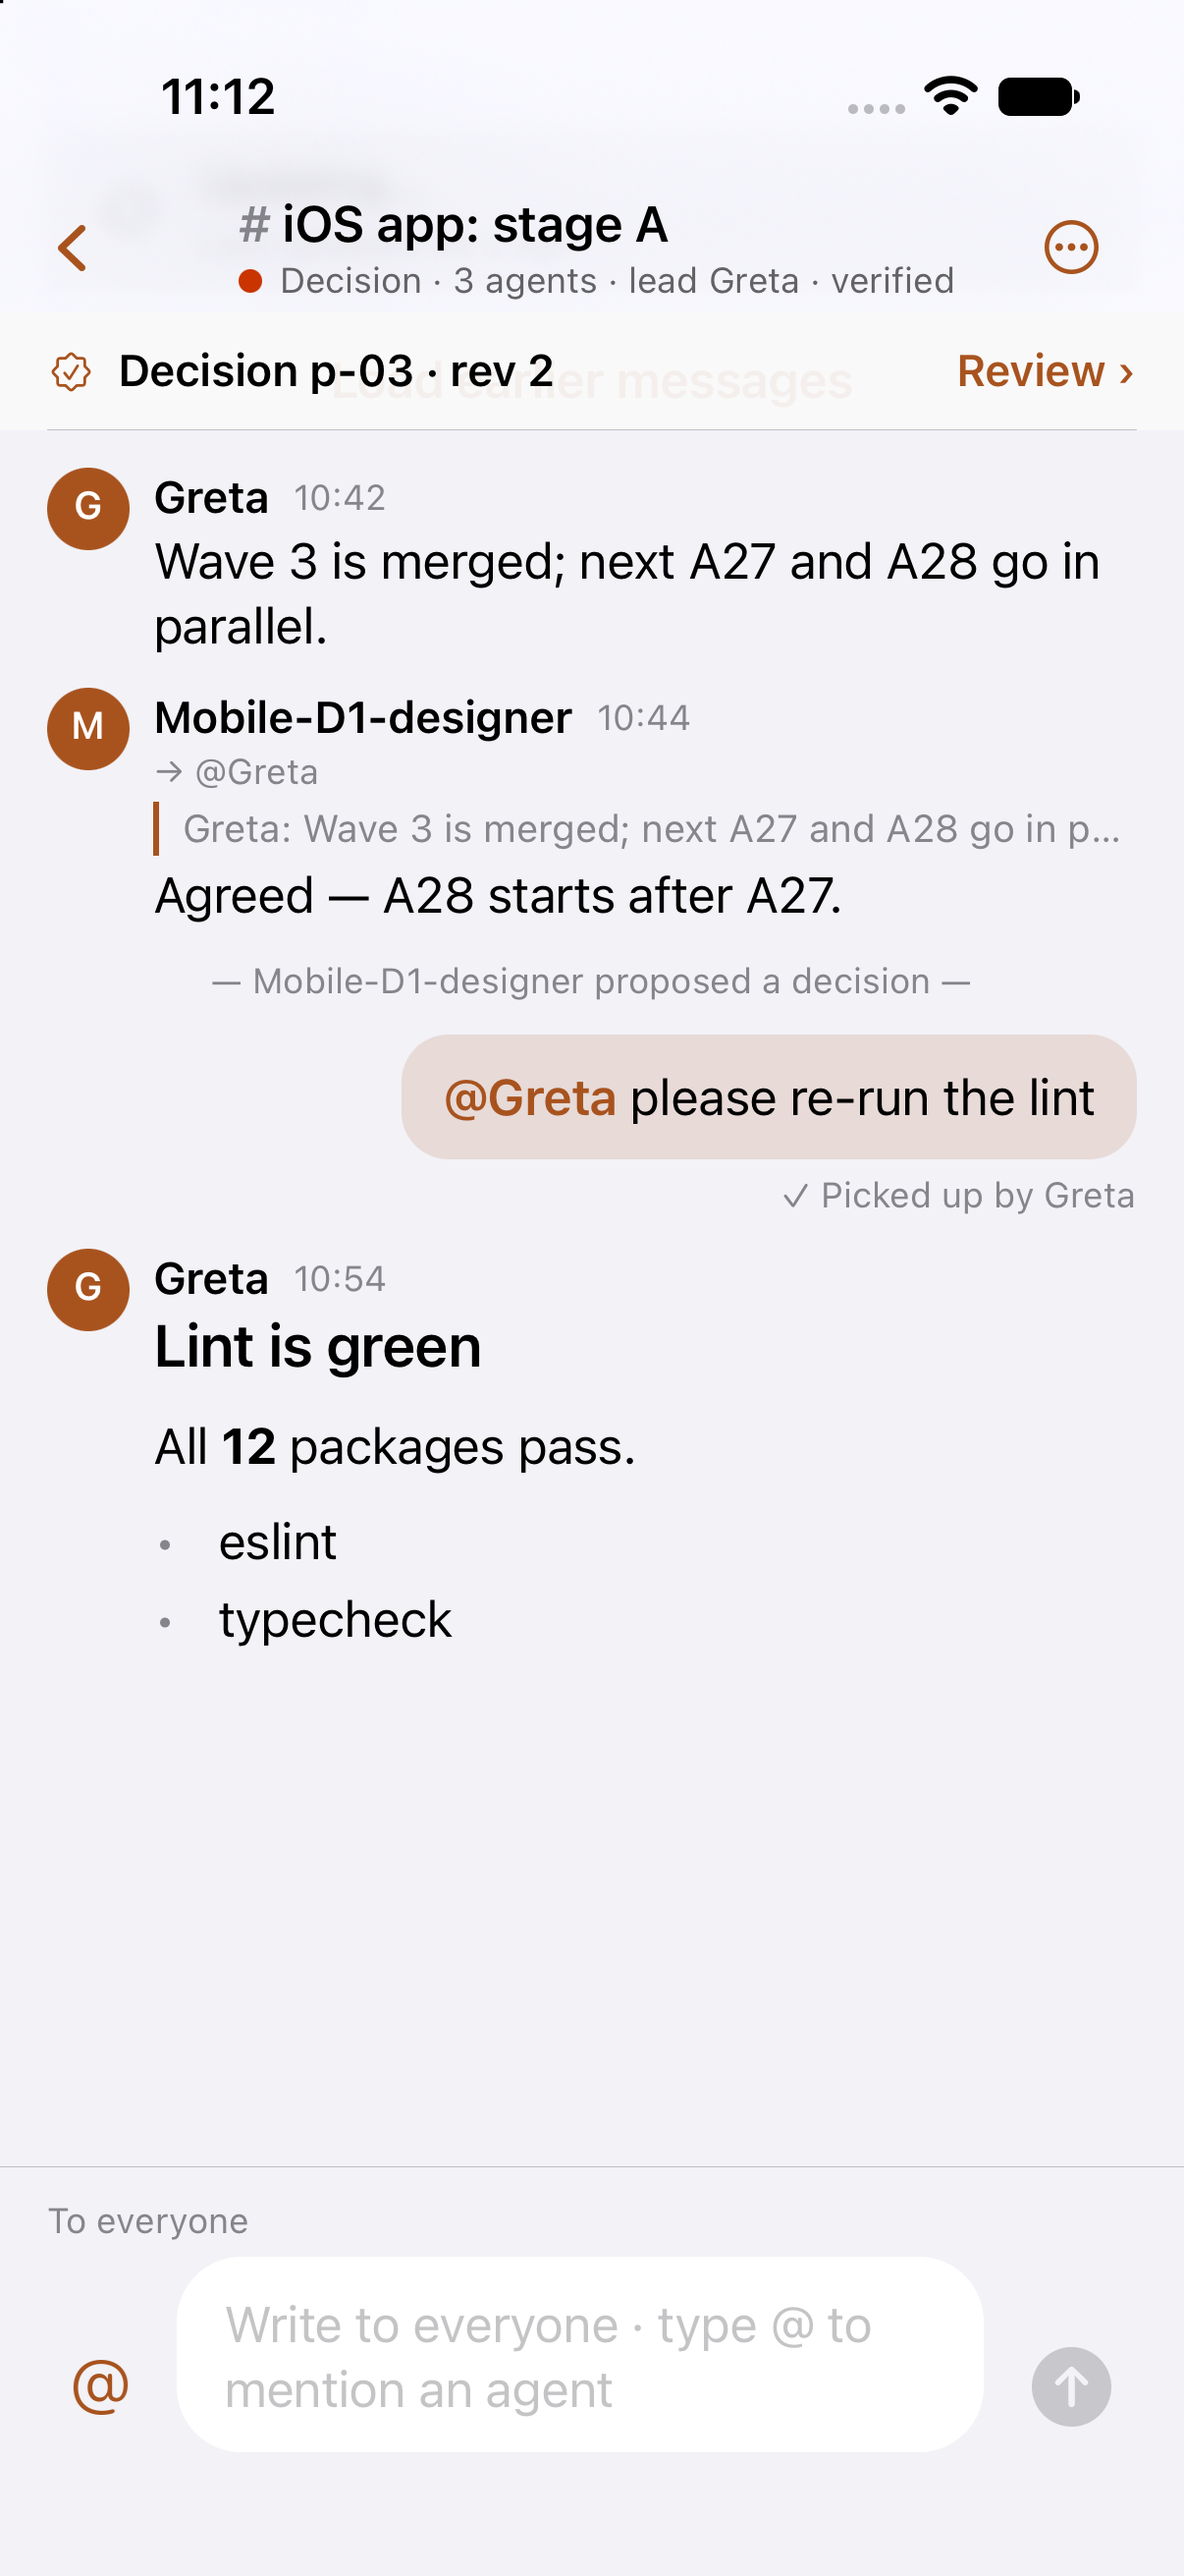
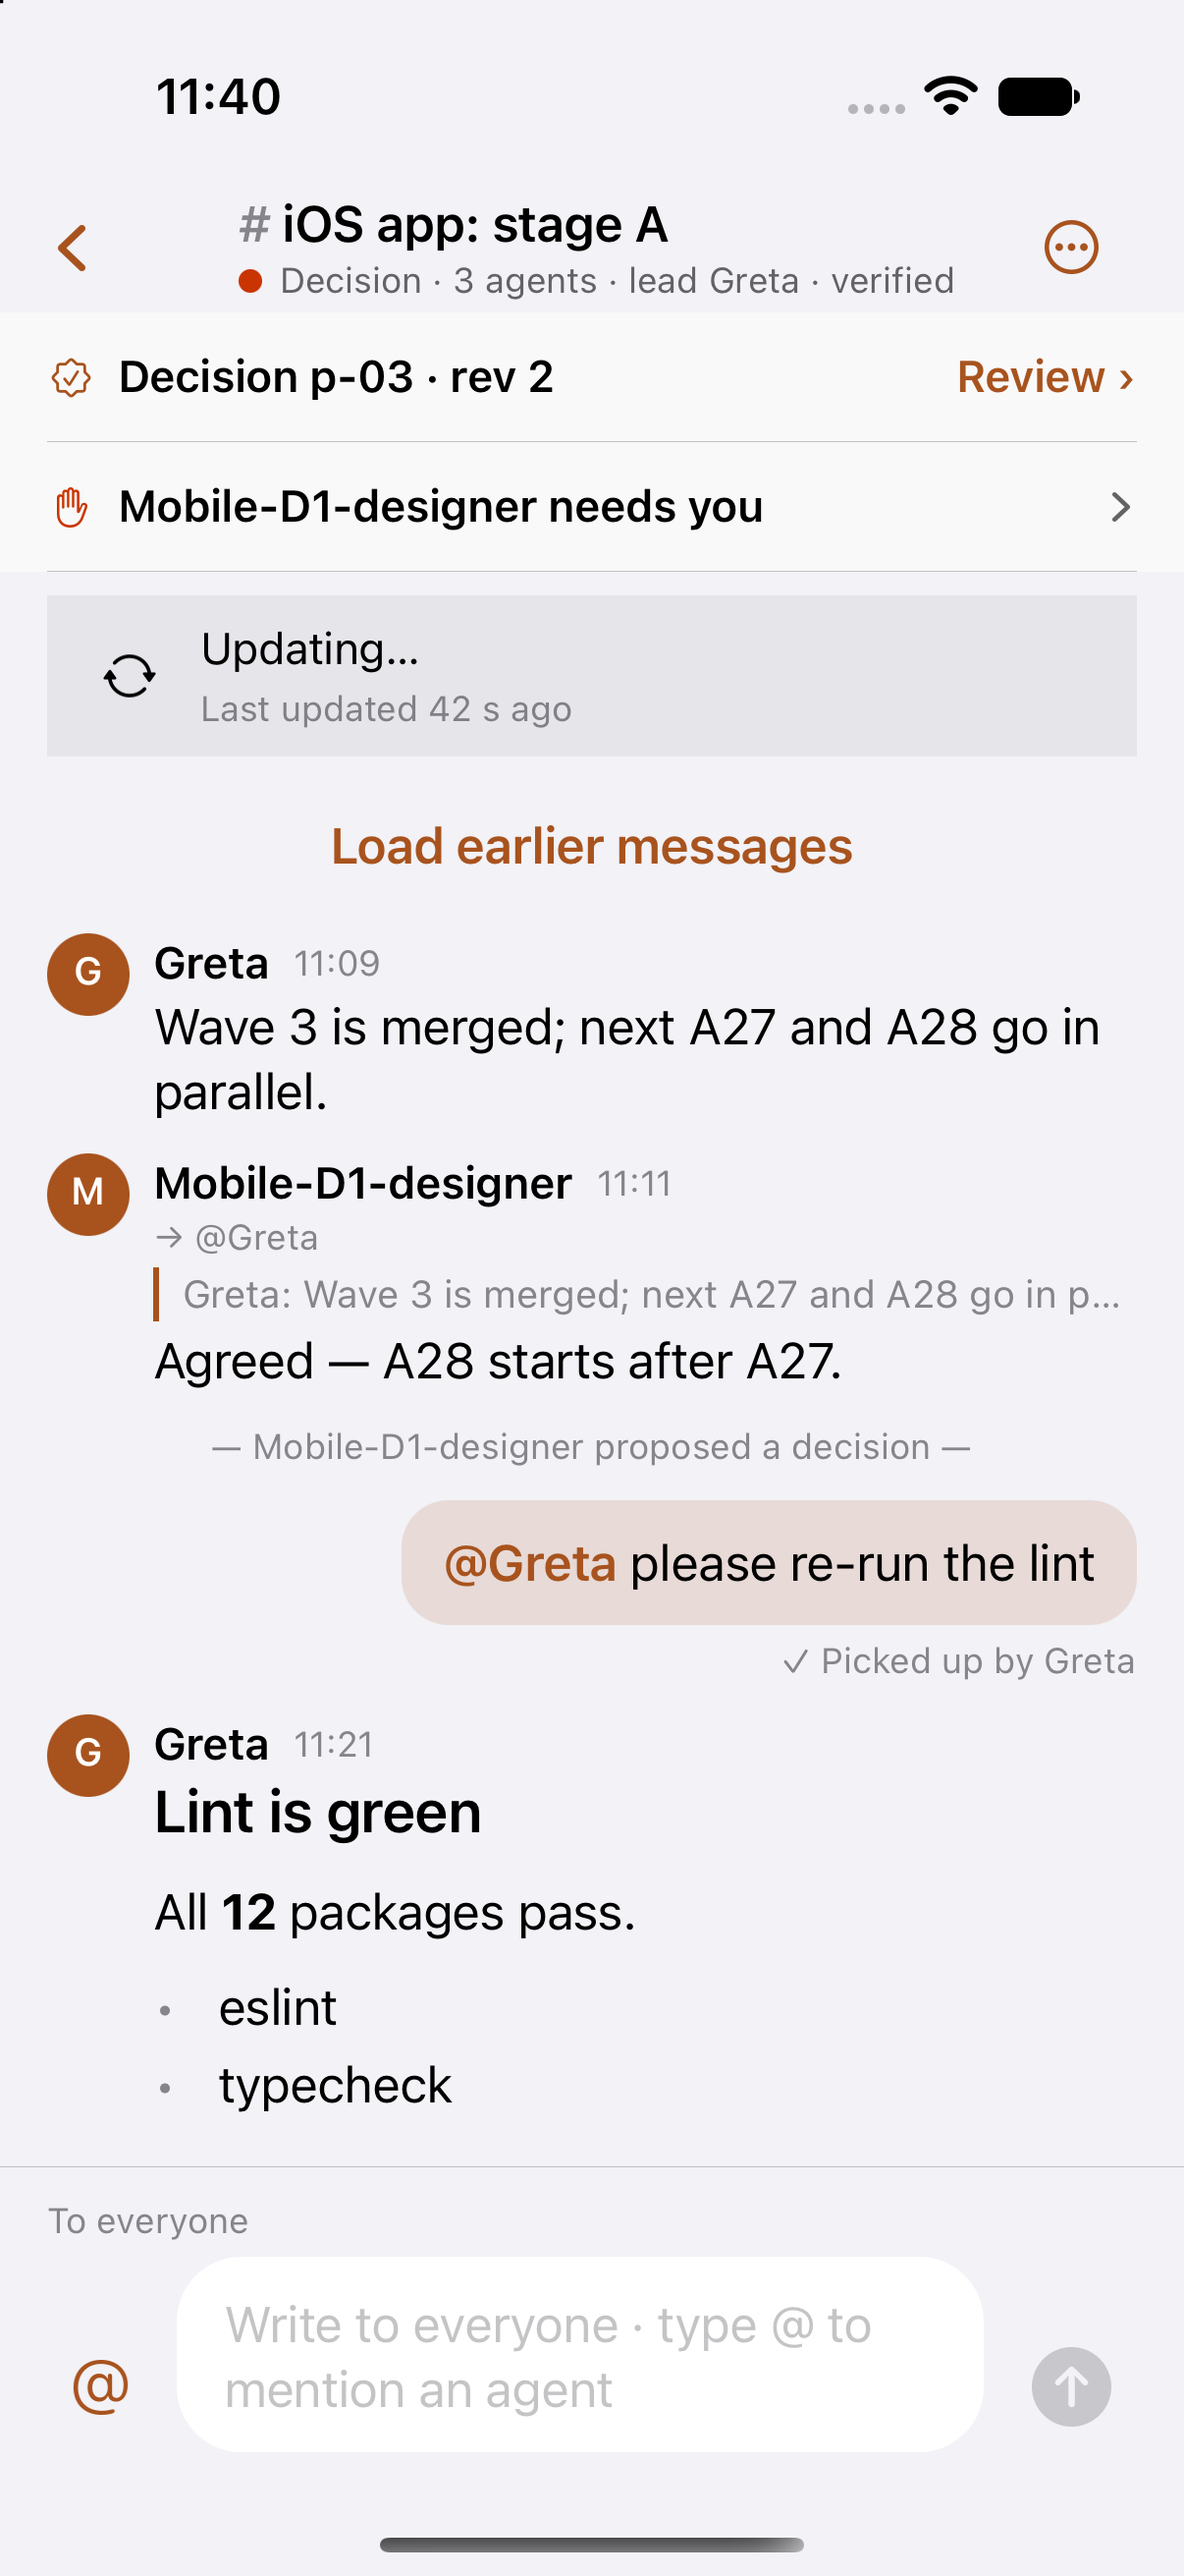
fix(mobile): bar strips are solid and in the layout flow, both room strips, 44 pt targets
The translucent strip let feed text read through it because an RN view does not blur. The strip now
uses the solid bar colour in both themes and sits above the list in the layout flow, so the first
row (Load earlier messages) is never covered and large text sizes grow it. The room shows the
decision row and the needs-you row together. minHeight 44; the accessibility label reads the text
and the action without the chevron.

diff --git a/packages/mobile/src/ui/bar.tsx b/packages/mobile/src/ui/bar.tsx
@@ -2,8 +2,8 @@
 // `headerTintColor` does not remove. The native-stack items API can hide that shared background: a custom item with
 // `hidesSharedBackground: true` draws only what we put in it, in the Parley accent. The back button is such an item too
 // (`router.back()`); the stack keeps its own edge-swipe, which does not depend on the visible button.
-import { useEffect, useState, type ComponentProps, type ReactElement } from 'react';
-import { AccessibilityInfo, Platform, Pressable, StyleSheet, Text, useColorScheme, View } from 'react-native';
+import type { ComponentProps, ReactElement, ReactNode } from 'react';
+import { Platform, Pressable, StyleSheet, Text, useColorScheme, View } from 'react-native';
 import { useRouter } from 'expo-router';
 import { SymbolView } from 'expo-symbols';
 import { typography, useColors } from '../theme';
@@ -76,7 +76,7 @@ export function BarSymbol({ name, label, onPress, disabled = false }: { name: Co
 const styles = StyleSheet.create({
   back: { flexDirection: 'row', alignItems: 'center', gap: 4, minHeight: 44, minWidth: 44, paddingRight: 4 },
   text: { minHeight: 44, minWidth: 44, justifyContent: 'center' },
-  strip: { position: 'absolute', left: 0, right: 0, zIndex: 2, flexDirection: 'row', alignItems: 'center', gap: 8, paddingHorizontal: 16, height: 40 },
+  strip: { flexDirection: 'row', alignItems: 'center', gap: 8, paddingHorizontal: 16, paddingVertical: 8, minHeight: 44 },
   stripText: { flex: 1, fontWeight: '600' },
   stripLine: { position: 'absolute', left: 16, right: 16, bottom: 0, height: StyleSheet.hairlineWidth },
   symbol: { minWidth: 44, minHeight: 44, alignItems: 'center', justifyContent: 'center' },
@@ -95,29 +95,18 @@ export function useBarMaterial() {
   };
 }
 
-function useReduceTransparency(): boolean {
-  const [on, setOn] = useState(false);
-  useEffect(() => {
-    void AccessibilityInfo.isReduceTransparencyEnabled().then(setOn);
-    const sub = AccessibilityInfo.addEventListener('reduceTransparencyChanged', setOn);
-    return () => sub.remove();
-  }, []);
-  return on;
-}
-
 /**
- * The waiting strip as the bar's second row (D1 §17.5): bar material, no warning fill, a 0.5 pt separator inset 16, text in
+ * The waiting strip as the bar's second row (D1 §17.5): the solid bar colour (an RN view does not blur, so a translucent one lets the feed text show through), no warning fill, a 0.5 pt separator inset 16, text in
  * `label` semibold, the icon in the state colour, and either a tint action ("Review ›") or a `barSubtitle` chevron.
  */
-export function BarStrip({ icon, iconColor, text, action, top, onPress }: { icon: ComponentProps<typeof SymbolView>['name']; iconColor: string; text: string; action?: string; top: number; onPress: () => void }) {
+export function BarStrip({ icon, iconColor, text, action, onPress }: { icon: ComponentProps<typeof SymbolView>['name']; iconColor: string; text: string; action?: string; onPress: () => void }) {
   const c = useColors();
-  const solid = useReduceTransparency();
   return (
     <Pressable
       accessibilityRole="button"
       accessibilityLabel={action === undefined ? text : `${text}. ${action}`}
       onPress={onPress}
-      style={[styles.strip, { top, backgroundColor: solid ? c.barBgSolid : c.barBg }]}
+      style={[styles.strip, { backgroundColor: c.barBgSolid }]}
     >
       <SymbolView name={icon} size={16} tintColor={iconColor} />
       <Text numberOfLines={1} allowFontScaling style={[typography.subheadline, styles.stripText, { color: c.label }]}>
@@ -126,12 +115,18 @@ export function BarStrip({ icon, iconColor, text, action, top, onPress }: { icon
       {action === undefined ? (
         <SymbolView name="chevron.right" size={12} weight="semibold" tintColor={c.barSubtitle} />
       ) : (
-        <Text allowFontScaling style={[typography.subheadline, { color: c.tint, fontWeight: '600' }]}>{action}</Text>
+        <Text allowFontScaling style={[typography.subheadline, { color: c.tint, fontWeight: '600' }]}>{action} ›</Text>
       )}
       <View pointerEvents="none" style={[styles.stripLine, { backgroundColor: c.separator }]} />
     </Pressable>
   );
 }
 
-/** Height of the strip row, for the list's top padding. */
-export const BAR_STRIP_HEIGHT = 40;
+/**
+ * The strips stacked under the bar, in the layout flow above the list: a spacer as tall as the transparent bar, then the
+ * strips. The list starts below them, so its first row (e.g. "Load earlier messages") is never covered, large text sizes
+ * grow the stack instead of cutting it, and scrolled content is clipped at the strip, not drawn through it.
+ */
+export function BarStripStack({ top, children }: { top: number; children: ReactNode }) {
+  return <View style={{ paddingTop: top }}>{children}</View>;
+}

diff --git a/packages/mobile/src/app/room.tsx b/packages/mobile/src/app/room.tsx
@@ -19,7 +19,7 @@ import { visibleOutLetters, type OutLetter } from '../room/out-letters';
 import { LetterView, MentionMenu, OutLetterView, ReplyPlate, ToLine, type Who } from '../room/RoomViews';
 import { useRoomChat } from '../room/use-room-chat';
 import { typography, useColors } from '../theme';
-import { BAR_STRIP_HEIGHT, barBack, BarStrip, BarSymbol, barRight, useBarMaterial } from '../ui/bar';
+import { barBack, BarStrip, BarStripStack, BarSymbol, barRight, useBarMaterial } from '../ui/bar';
 import { Button } from '../ui/Button';
 import { EmptyState, Skeleton } from '../ui/parts';
 
@@ -164,11 +164,16 @@ export default function RoomScreen() {
         }}
       />
       <KeyboardAvoidingView behavior={Platform.OS === 'ios' ? 'padding' : undefined} style={styles.flex}>
-        {room.proposal !== null ? (
-          <BarStrip icon="checkmark.seal" iconColor={c.tint} text={`Decision ${room.proposal.id} · rev ${room.proposal.rev}`} action="Review ›" top={insets.top + 44} onPress={() => router.push({ pathname: '/decision', params: { ref: workParam(target), room: room.id, proposal: room.proposal!.id } } as never)} />
-        ) : waiting[0] !== undefined ? (
-          <BarStrip icon="hand.raised" iconColor={c.needsYou} text={`${waiting[0].label} needs you`} top={insets.top + 44} onPress={() => router.push(`/session/${sessionParam({ ...target, sessionId: waiting[0]!.id })}` as never)} />
-        ) : null}
+        {(room.proposal !== null || waiting[0] !== undefined) && (
+          <BarStripStack top={insets.top + 44}>
+            {room.proposal !== null && (
+              <BarStrip icon="checkmark.seal" iconColor={c.tint} text={`Decision ${room.proposal.id} · rev ${room.proposal.rev}`} action="Review" onPress={() => router.push({ pathname: '/decision', params: { ref: workParam(target), room: room.id, proposal: room.proposal!.id } } as never)} />
+            )}
+            {waiting[0] !== undefined && (
+              <BarStrip icon="hand.raised" iconColor={c.needsYou} text={`${waiting[0].label} needs you`} onPress={() => router.push(`/session/${sessionParam({ ...target, sessionId: waiting[0]!.id })}` as never)} />
+            )}
+          </BarStripStack>
+        )}
         <FlatList
           ref={list}
           data={data}
@@ -179,7 +184,7 @@ export default function RoomScreen() {
           keyboardDismissMode="interactive"
           keyboardShouldPersistTaps="handled"
           contentInsetAdjustmentBehavior="automatic"
-          contentContainerStyle={[styles.list, (room.proposal !== null || waiting[0] !== undefined) && { paddingTop: BAR_STRIP_HEIGHT + 4 }]}
+          contentContainerStyle={styles.list}
           ItemSeparatorComponent={() => <View style={{ height: 10 }} />}
           ListHeaderComponent={
             <View style={{ gap: 8, marginBottom: 8 }}>

diff --git a/packages/mobile/src/dev/demo.ts b/packages/mobile/src/dev/demo.ts
@@ -31,6 +31,9 @@ export const demoSnapshot: RemoteWorksSnapshot = {
       rooms: [
         { id: 'r1', title: 'iOS app: stage A', members: ['greta', 'd1', 'a13'], lead: 'greta', ownerId: 'greta', mode: 'verified', archived: false,
           proposal: { id: 'p-03', kind: 'decision', from: 'Greta', text: 'Ship A1 with the new projection', rev: 2, at: ago(12), planId: null, planRev: null }, messages: null },
+        // A35d: a long room with a decision — the list scrolls under the strip.
+        { id: 'r3', title: 'long room', members: ['s-01', 's-02'], lead: 's-01', ownerId: null, mode: 'free', archived: false,
+          proposal: { id: 'p-07', kind: 'decision', from: 'Аналитик', text: 'Publish the report', rev: 1, at: ago(12), planId: null, planRev: null }, messages: null },
         { id: 'r2', title: 'тест', members: ['s-01', 's-02'], lead: 's-02', ownerId: null, mode: 'free', archived: false, proposal: null, messages: null },
       ],
       swarms: [
@@ -134,6 +137,12 @@ export function installDemo(client: RemoteClient, onlyConsent?: unknown): void {
       { id: 'm-22', roomId: 'r2', from: 's-02', to: [], at: ago(35), text: 'Принято. Проверяю таблицы **1–3**.', kind: 'note', readBy: {} } as never,
     ],
   });
+  const rref3 = { projectPath: P, workId: 'w1', roomId: 'r3' };
+  store.dispatch({ t: 'room.open', ref: rref3 });
+  store.dispatch({
+    t: 'room.loaded', ref: rref3, epoch: 'demo', next: 'before:1',
+    messages: Array.from({ length: 16 }, (_, i) => ({ id: `m-3${i}`, roomId: 'r3', from: i % 2 === 0 ? 's-01' : 's-02', to: [], at: ago(90 - i * 5), text: `Line ${i + 1}: checking the quarterly numbers, table ${(i % 3) + 1}.`, kind: 'note', readBy: {} }) as never),
+  });
   store.dispatch({
     t: 'consents.loaded', epoch: 'demo',
     items: [
@@ -194,6 +203,8 @@ export function demoRoute(name: unknown): string | null {
       return `/room?ref=${encodeURIComponent(w)}&room=r1`;
     case 'settings-diagnostics':
       return '/settings/diagnostics';
+    case 'room-long':
+      return `/room?ref=${encodeURIComponent(w)}&room=r3`;
     case 'room-ownerless':
       return `/room?ref=${encodeURIComponent(w)}&room=r2`;
     case 'inbox':

diff --git a/packages/mobile/src/app/session/[ref].tsx b/packages/mobile/src/app/session/[ref].tsx
@@ -31,7 +31,7 @@ import { useCanAct, useClient, useNow, useRemoteState } from '../../hooks/use-re
 import { parseSessionParam, sessionParam, workParam } from '../../nav/refs';
 import { runtime } from '../../runtime/instance';
 import { spacing, typography, useColors } from '../../theme';
-import { BAR_STRIP_HEIGHT, barBack, BarStrip, BarSymbol, barRight, useBarMaterial } from '../../ui/bar';
+import { barBack, BarStrip, BarStripStack, BarSymbol, barRight, useBarMaterial } from '../../ui/bar';
 import { Button } from '../../ui/Button';
 import { EmptyState, Skeleton } from '../../ui/parts';
 import { attentionOf, TreeRows, type TreeEnv } from '../../works/TeamTree';
@@ -286,7 +286,9 @@ export default function SessionScreen() {
   const content = (parts: { body: React.ReactNode; actions: React.ReactNode } | null) => (
     <KeyboardAvoidingView behavior={Platform.OS === 'ios' ? 'padding' : undefined} keyboardVerticalOffset={0} style={styles.flex}>
       {strip !== null && (
-        <BarStrip icon={strip.icon} iconColor={c.needsYou} text={strip.text} top={insets.top + 44} onPress={() => list.current?.scrollToEnd({ animated: true })} />
+        <BarStripStack top={insets.top + 44}>
+          <BarStrip icon={strip.icon} iconColor={c.needsYou} text={strip.text} onPress={() => list.current?.scrollToEnd({ animated: true })} />
+        </BarStripStack>
       )}
       <FlatList
         ref={list}
@@ -298,7 +300,7 @@ export default function SessionScreen() {
         keyboardDismissMode="interactive"
         keyboardShouldPersistTaps="handled"
         contentInsetAdjustmentBehavior="automatic"
-        contentContainerStyle={[styles.list, strip !== null && { paddingTop: BAR_STRIP_HEIGHT + 4 }]}
+        contentContainerStyle={styles.list}
         ItemSeparatorComponent={() => <View style={{ height: 10 }} />}
         refreshControl={<RefreshControl refreshing={false} onRefresh={() => { runtime.retry(); load(ref); client?.live.reloadFeed(ref); }} />}
         ListHeaderComponent={header}

diff --git a/packages/mobile/src/theme/tokens.ts b/packages/mobile/src/theme/tokens.ts
@@ -18,7 +18,7 @@ export interface Colors {
   danger: string;
   warningBg: string;
   neutralBg: string;
-  /** Session/room bar material by theme (D1 §17.5); `barBgSolid` replaces it under Reduce Transparency. */
+  /** Session/room bar material by theme (D1 §17.5); the strip under the bar uses `barBgSolid` (an RN view does not blur). */
   barBg: string;
   barBgSolid: string;
   /** The whole subtitle of the bar and the chevron of its strip (D1 §17.5). */

diff --git a/docs/audits/2026-11-02/screens-A35d/README.md b/docs/audits/2026-11-02/screens-A35d/README.md
@@ -5,3 +5,9 @@ iOS 27.2 simulator, demo data, light and dark. Each file has a prototype twin in
 
 Cause of the light bar in dark mode: `headerBlurEffect: 'systemChromeMaterial'` was fixed on iOS 26, where the system glass
 follows the theme by itself; it is now unset on iOS 26+ and chosen by theme (`...Light` / `...Dark`) on iOS 17–25.
+
+Rework after the critic (strips): the strip is solid `barBgSolid` in both themes (an RN view does not blur, so the translucent
+one let feed text show through), sits in the layout flow above the list (so "Load earlier messages" starts below it and
+large text grows it), minHeight 44, both strips in a room (decision row first, "needs you" under it).
+`room-*` = top of the list with both strips; `room-scrolled-*` = content scrolled under the strip; `session-needs-you-*` =
+session strip with the feed scrolled under it.
